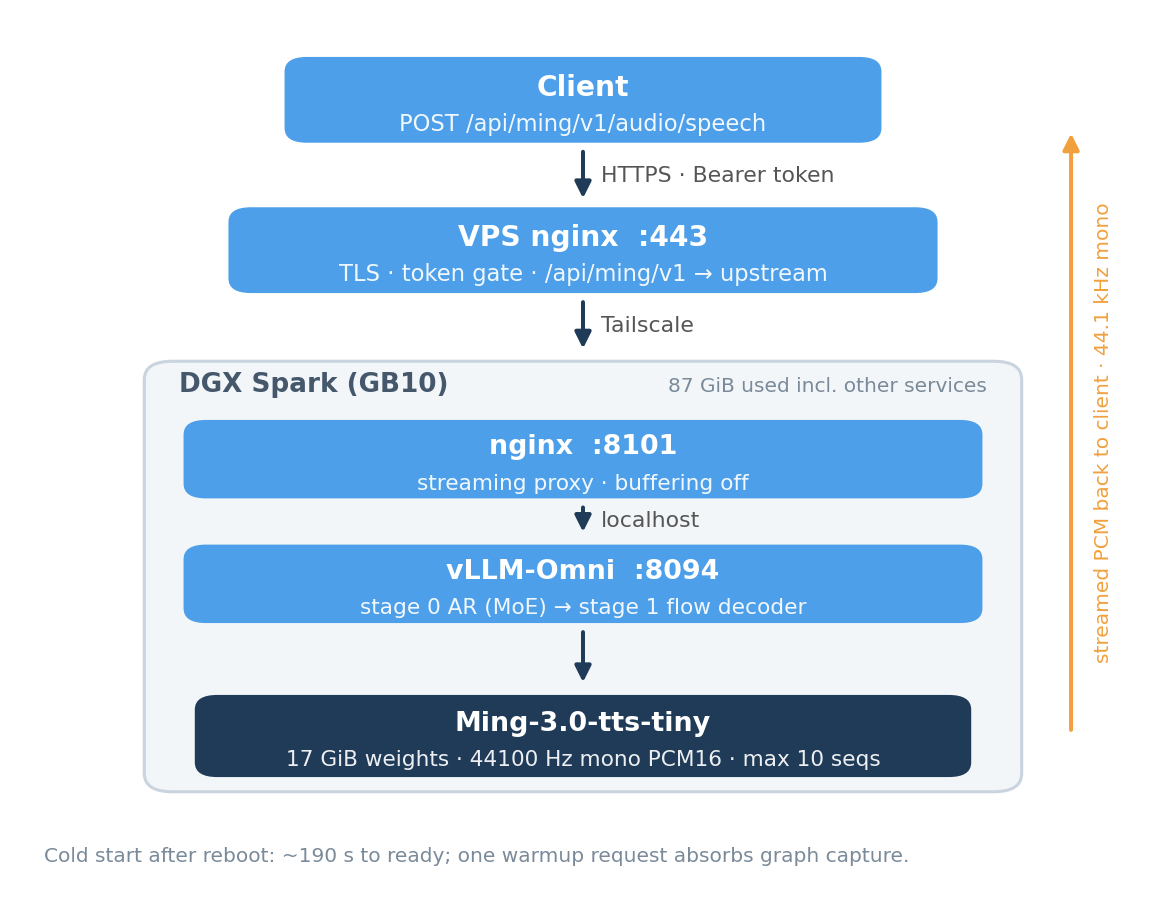
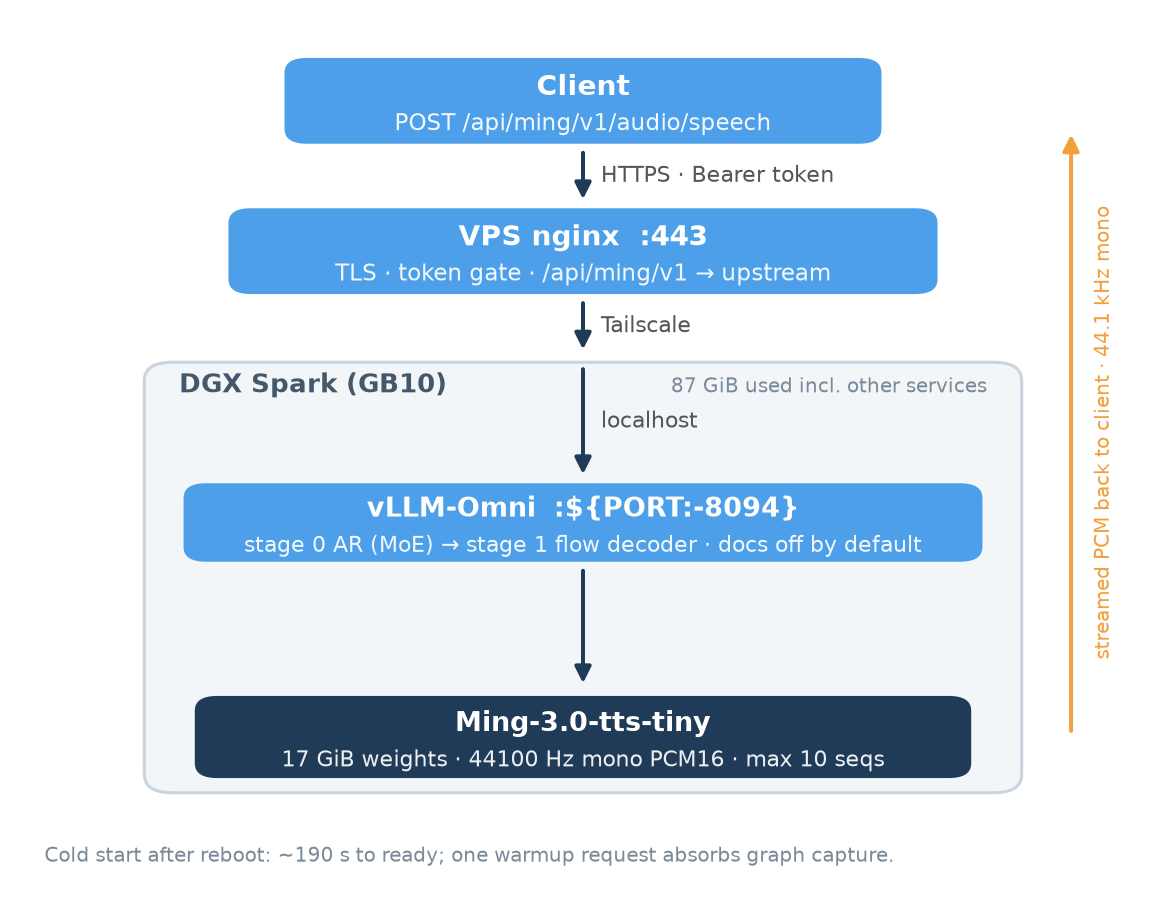
build, feat, docs: 移除 nginx 代理并支持可配置端口和禁用文档

diff --git a/scripts/draw_architecture.py b/scripts/draw_architecture.py
@@ -59,11 +59,11 @@ ax.add_patch(host)
 ax.text(1.4, 6.95, "DGX Spark (GB10)", fontsize=8.6, color="#44576B", fontweight="bold")
 ax.text(8.6, 6.95, "87 GiB used incl. other services", fontsize=6.6, color="#7A8A99", ha="right")
 
-box(1.5, 5.55, 7.0, 0.95, "nginx  :8101", "streaming proxy · buffering off", fs=8.8, subfs=7.1)
-arrow(5.0, 5.45, 5.0, 4.95, "localhost")
-box(1.5, 3.85, 7.0, 0.95, "vLLM-Omni  :8094", "stage 0 AR (MoE) → stage 1 flow decoder", fs=8.8, subfs=7.1)
+arrow(5.0, 7.35, 5.0, 5.75, "localhost")
+box(1.5, 4.7, 7.0, 0.95, "vLLM-Omni  :${PORT:-8094}", "stage 0 AR (MoE) → stage 1 flow decoder · docs off by default",
+    fs=8.8, subfs=7.1)
 
-arrow(5.0, 3.75, 5.0, 2.9, "")
+arrow(5.0, 4.6, 5.0, 2.9, "")
 box(1.6, 1.75, 6.8, 1.0, "Ming-3.0-tts-tiny", "17 GiB weights · 44100 Hz mono PCM16 · max 10 seqs",
     fc=DARK, fs=8.8, subfs=7.1)
 

diff --git a/README.md b/README.md
@@ -60,8 +60,8 @@ Read `X-Audio-Sample-Rate` (44100) before playing raw PCM.
 
 Prerequisites: DGX Spark (GB10), Docker with NVIDIA runtime, `docker compose`,
 [`uv`](https://docs.astral.sh/uv/) and `python3` (download and patch the
-weights on the host), ports 8094 and 8101 free, about 40 GiB free disk,
-internet access.
+weights on the host), port 8094 free (override with `PORT=...`), about 40 GiB
+free disk, internet access.
 
 ```bash
 git clone https://github.com/0mao0/dgx-spark-ming-tts.git
@@ -72,11 +72,20 @@ cd dgx-spark-ming-tts
 `deploy.sh` downloads the 17 GiB weights on first run, builds the image
 (vLLM 0.32.0 + the pinned vLLM-Omni overlay), starts the container, and waits
 until the API answers. A cold start takes about 190 s. When it prints `ready`,
-the API is at `http://<spark>:8094/v1` and the streaming proxy at
-`http://<spark>:8101/v1`. `./deploy.sh --no-start` stops after downloading and
-patching the weights: no image build, no container. To build the image alone
-(e.g. after a Dockerfile change), use `./build.sh`; extra flags go straight to
-`docker compose build`.
+the API is at `http://<spark>:8094/v1` (or `http://<spark>:$PORT/v1`).
+
+Runtime environment variables (set them when invoking `deploy.sh` /
+`docker compose`):
+
+| Variable | Default | Meaning |
+|---|---|---|
+| `PORT` | `8094` | HTTP port vLLM serve listens on |
+| `SERVED_NAME` | `ming3` | model name exposed at `/v1/models` |
+| `DISABLE_DOCS` | `1` | `1` turns off `/docs`, `/redoc`, `/openapi.json`; set `0` to expose them |
+
+`./deploy.sh --no-start` stops after downloading and patching the weights: no
+image build, no container. To build the image alone (e.g. after a Dockerfile
+change), use `./build.sh`; extra flags go straight to `docker compose build`.
 
 Slow network in mainland China: pass a mirror to the build.
 
@@ -190,7 +199,7 @@ word for word — a mismatch shifts prosody and can sound like a dialect.
 ## Operations
 
 ```bash
-docker compose logs -f          # engine and proxy logs
+docker compose logs -f          # engine logs
 docker compose restart          # restart the service
 docker compose down             # stop; weights and image stay
 ./deploy.sh                     # idempotent re-deploy / update
@@ -200,7 +209,9 @@ docker compose down             # stop; weights and image stay
 
 Public HTTPS with a bearer token (optional): run `deploy/vps/install.sh` on a
 VPS, as described in its header. The engine itself has no authentication; do
-not expose 8094 or 8101 directly.
+not expose the port directly. The engine's Swagger/ReDoc endpoints are off by
+default (`DISABLE_DOCS=1`), matching what the removed in-container nginx proxy
+used to hide.
 
 ## Updating
 

diff --git a/THIRD_PARTY_NOTICES.md b/THIRD_PARTY_NOTICES.md
@@ -9,7 +9,6 @@ source code.
 | [inclusionAI/Ming-3.0-tts-tiny](https://huggingface.co/inclusionAI/Ming-3.0-tts-tiny) | model weights, downloaded by the user | MIT |
 | [vLLM](https://github.com/vllm-project/vllm) 0.32.0 | inference runtime, installed with pip | Apache-2.0 |
 | [vLLM-Omni](https://github.com/vllm-project/vllm-omni) PR #9119 / #9198 | pipeline and serving overlay, downloaded by the user | Apache-2.0 |
-| [nginx](https://nginx.org/) | streaming proxy, configuration only | BSD-2-Clause |
 | [matplotlib](https://matplotlib.org/) / [Pillow](https://python-pillow.org/) | chart scripts | PSF-based / HPND |
 | [CosyVoice](https://github.com/QwenAudio/CosyVoice) sample voices | reference voices in `voices/` (Serena, Aiden, Vivian, Uncle Fu), 16 kHz mono | Apache-2.0 |
 
